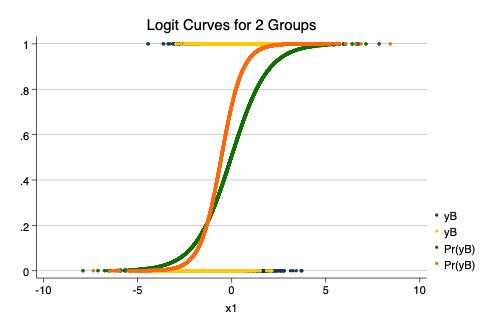
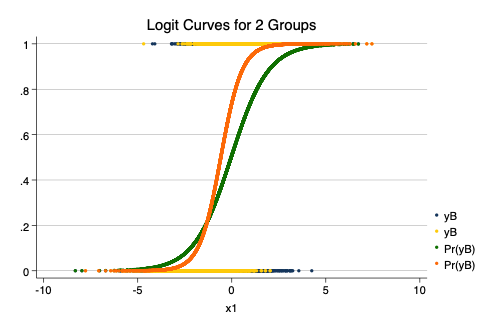
LaTeX upgrades

diff --git a/logistic-interactions/logistic-interactions.html b/logistic-interactions/logistic-interactions.html
@@ -58,13 +58,13 @@ table tbody:last-child tr:last-child td {border-bottom:1px solid black;}
 <header id="title-block-header">
 <h1 class="title">Interactions in Logistic Regression</h1>
 <p class="author">Andy Grogan-Kaylor</p>
-<p class="date">19 Mar 2020 18:05:28</p>
+<p class="date">20 Mar 2020 08:22:43</p>
 </header>
 <h1 id="the-math">The Math</h1>
-<p><span class="math inline">\(ln(\frac{p(y)}{1-p(y)}) = \beta_0 + \beta_1 x1 + \beta_2 x2 + ...\)</span></p>
-<p>Set <span class="math inline">\(\beta_0 + \beta_1 x1 + \beta_2 x2 + ...\)</span> to <span class="math inline">\(z\)</span>.</p>
+<p><span class="math inline">\(\ln(\frac{p(y)}{1-p(y)}) = \beta_0 + \beta_1 x_1 + \beta_2 x_2 + ...\)</span></p>
+<p>Set <span class="math inline">\(\beta_0 + \beta_1 x_1 + \beta_2 x_2 + ... =\)</span> to <span class="math inline">\(z\)</span>.</p>
 <p>Then</p>
-<p><span class="math inline">\(ln(\frac{p(y)}{1-p(y)}) = z\)</span></p>
+<p><span class="math inline">\(\ln(\frac{p(y)}{1-p(y)}) = z\)</span></p>
 <p><span class="math inline">\(\frac{p(y)}{1-p(y)} = e^z\)</span></p>
 <p><span class="math inline">\(p(y) = e^z(1-p(y))\)</span></p>
 <p><span class="math inline">\(p(y) = e^z-e^z(p(y))\)</span></p>
@@ -81,7 +81,7 @@ number of observations (_N) was 0, now 10,000
 <pre class='stata'>. generate x1 = rnormal(0, 2) // normally distributed
 </pre>
 <pre class='stata'>. histogram x1, scheme(michigan)
-(bin=40, start=-8.3670902, width=.41768236)
+(bin=40, start=-8.316865, width=.39425235)
 </pre>
 <pre class='stata'>. graph export myx1graph.png, width(200) replace
 (file myx1graph.png written in PNG format)
@@ -103,8 +103,8 @@ number of observations (_N) was 0, now 10,000
 
     Variable │        Obs        Mean    Std. Dev.       Min        Max
 ─────────────┼─────────────────────────────────────────────────────────
-          x1 │     10,000   -.0064506    1.986698   -8.36709   8.340204
-          x2 │     10,000       .4965    .5000128          0          1
+          x1 │     10,000    .0126806     1.99713  -8.316865   7.453229
+          x2 │     10,000       .4914     .499951          0          1
 </pre>
 <h1 id="story-a-main-effects-only">Story A: Main Effects Only</h1>
 <h2 id="set-up-the-data">Set Up The Data</h2>
@@ -116,41 +116,41 @@ number of observations (_N) was 0, now 10,000
 
     Variable │        Obs        Mean    Std. Dev.       Min        Max
 ─────────────┼─────────────────────────────────────────────────────────
-          pA │     10,000    .5736906    .3144407   .0002323   .9999122
+          pA │     10,000    .5742931     .312551   .0002443   .9997869
 </pre>
 <pre class='stata'>. generate yA = rbinomial(1, pA) // generate y with probability p
 </pre>
 <p>i.e.</p>
-<p><span class="math display">\[ln(\frac{p(y)}{1-p(y)}) = \beta_0 + \beta_1 x_1 + \beta_2 x_2\]</span></p>
+<p><span class="math display">\[\ln\Bigg{(}\frac{p(y)}{1-p(y)}\Bigg{)} = \beta_0 + \beta_1 x_1 + \beta_2 x_2\]</span></p>
 <pre class='stata'>. tab yA // descriptive statistics
 
          yA │      Freq.     Percent        Cum.
 ────────────┼───────────────────────────────────
-          0 │      4,201       42.01       42.01
-          1 │      5,799       57.99      100.00
+          0 │      4,288       42.88       42.88
+          1 │      5,712       57.12      100.00
 ────────────┼───────────────────────────────────
       Total │     10,000      100.00
 </pre>
 <h2 id="logistic-regression">Logistic Regression</h2>
 <pre class='stata'>. logit yA x1 x2 // does it recover the parameters?
 
-Iteration 0:   log likelihood = -6803.2426  
-Iteration 1:   log likelihood = -4549.8513  
-Iteration 2:   log likelihood = -4493.7423  
-Iteration 3:   log likelihood = -4493.6333  
-Iteration 4:   log likelihood = -4493.6333  
+Iteration 0:   log likelihood = -6829.7375  
+Iteration 1:   log likelihood = -4519.9834  
+Iteration 2:   log likelihood = -4468.6743  
+Iteration 3:   log likelihood = -4467.9269  
+Iteration 4:   log likelihood = -4467.9267  
 
 Logistic regression                             Number of obs     =     10,000
-                                                LR chi2(2)        =    4619.22
+                                                LR chi2(2)        =    4723.62
                                                 Prob > chi2       =     0.0000
-Log likelihood = -4493.6333                     Pseudo R2         =     0.3395
+Log likelihood = -4467.9267                     Pseudo R2         =     0.3458
 
 ─────────────┬────────────────────────────────────────────────────────────────
           yA │      Coef.   Std. Err.      z    P>|z|     [95% Conf. Interval]
 ─────────────┼────────────────────────────────────────────────────────────────
-          x1 │   .9872906    .020391    48.42   0.000      .947325    1.027256
-          x2 │   .9461222   .0534605    17.70   0.000     .8413416    1.050903
-       _cons │   .0646131   .0361813     1.79   0.074    -.0063009    .1355272
+          x1 │   1.011516   .0208294    48.56   0.000     .9706917    1.052341
+          x2 │   1.055538   .0542218    19.47   0.000     .9492649    1.161811
+       _cons │  -.0442423   .0360868    -1.23   0.220    -.1149711    .0264865
 ─────────────┴────────────────────────────────────────────────────────────────
 </pre>
 <pre class='stata'>. predict yhatA // predicted probabilities
@@ -166,46 +166,46 @@ Log likelihood = -4493.6333                     Pseudo R2         =     0.3395
 
     Variable │        Obs        Mean    Std. Dev.       Min        Max
 ─────────────┼─────────────────────────────────────────────────────────
-          pB │     10,000    .5510207    .3491368   3.72e-06   .9999998
+          pB │     10,000    .5505714    .3483016   3.34e-06   .9999992
 </pre>
 <pre class='stata'>. generate yB = rbinomial(1, pB) // generate y with probability p
 </pre>
 <p>i.e.</p>
-<p><span class="math display">\[ln(\frac{p(y)}{1-p(y)}) = \beta_0 + \beta_1 x_1 + \beta_2 x_2 + \beta_3 x1*x2\]</span></p>
+<p><span class="math display">\[\ln\Bigg{(}\frac{p(y)}{1-p(y)}\Bigg{)} = \beta_0 + \beta_1 x_1 + \beta_2 x_2 + \beta_3 x_1 * x_2\]</span></p>
 <pre class='stata'>. tab yB // descriptive statistics
 
          yB │      Freq.     Percent        Cum.
 ────────────┼───────────────────────────────────
-          0 │      4,473       44.73       44.73
-          1 │      5,527       55.27      100.00
+          0 │      4,459       44.59       44.59
+          1 │      5,541       55.41      100.00
 ────────────┼───────────────────────────────────
       Total │     10,000      100.00
 </pre>
 <h2 id="logistic-regression-1">Logistic Regression</h2>
 <pre class='stata'>. logit yB c.x1##i.x2 // does it recover the parameters?
 
-Iteration 0:   log likelihood = -6875.8227  
-Iteration 1:   log likelihood = -3989.0918  
-Iteration 2:   log likelihood =  -3898.881  
-Iteration 3:   log likelihood = -3893.1824  
-Iteration 4:   log likelihood = -3893.1631  
-Iteration 5:   log likelihood = -3893.1631  
+Iteration 0:   log likelihood = -6872.8209  
+Iteration 1:   log likelihood = -3954.8434  
+Iteration 2:   log likelihood = -3867.5072  
+Iteration 3:   log likelihood =   -3863.05  
+Iteration 4:   log likelihood = -3863.0356  
+Iteration 5:   log likelihood = -3863.0356  
 
 Logistic regression                             Number of obs     =     10,000
-                                                LR chi2(3)        =    5965.32
+                                                LR chi2(3)        =    6019.57
                                                 Prob > chi2       =     0.0000
-Log likelihood = -3893.1631                     Pseudo R2         =     0.4338
+Log likelihood = -3863.0356                     Pseudo R2         =     0.4379
 
 ─────────────┬────────────────────────────────────────────────────────────────
           yB │      Coef.   Std. Err.      z    P>|z|     [95% Conf. Interval]
 ─────────────┼────────────────────────────────────────────────────────────────
-          x1 │   .9639203   .0276195    34.90   0.000     .9097871    1.018054
-        1.x2 │   1.052187   .0629959    16.70   0.000     .9287172    1.175657
+          x1 │    1.01595   .0289157    35.13   0.000     .9592759    1.072623
+        1.x2 │    1.00315    .063427    15.82   0.000     .8788351    1.127464
              │
      x2#c.x1 │
-          1  │   .8433855   .0604772    13.95   0.000     .7248523    .9619187
+          1  │   .7652222   .0600379    12.75   0.000     .6475501    .8828943
              │
-       _cons │   .0030754   .0359074     0.09   0.932    -.0673018    .0734526
+       _cons │   .0325715   .0361302     0.90   0.367    -.0382424    .1033853
 ─────────────┴────────────────────────────────────────────────────────────────
 </pre>
 <pre class='stata'>. predict yhatB // predicted probabilities
